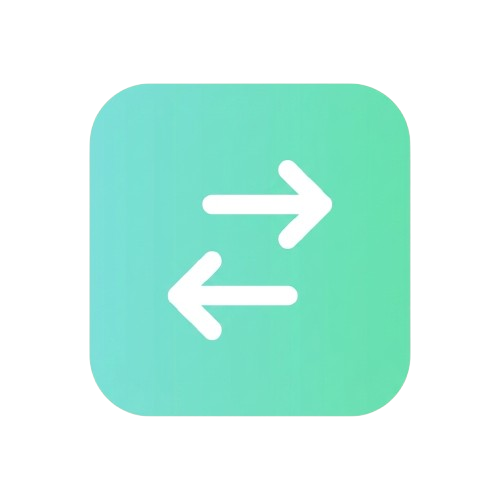
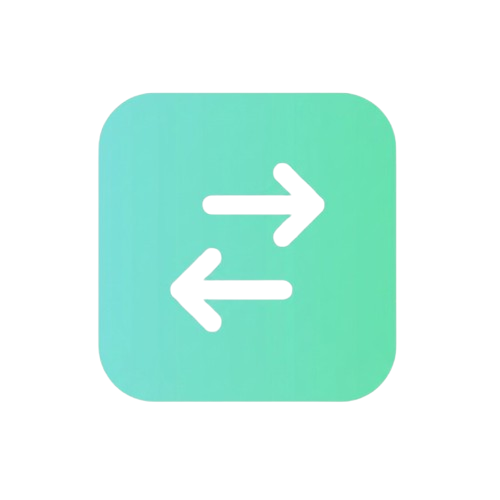
Se agregan las imagenes de nuestros servicios

Changed region(s): [[0.18, 0.15, 0.84, 0.84], [0.33, 0.48, 0.6, 0.69], [0.54, 0.3, 0.69, 0.51]]

diff --git a/index.html b/index.html
@@ -61,32 +61,32 @@
                 </div>
 
                 <div class="tarjeta-item tarjeta-test">
-                    <img src="..." alt="Icono Test Vocacional Personalizado" class="icono-tarjeta">
+                    <img src="./Componentes/Imagenes/lista.png" alt="Icono Test Vocacional Personalizado" class="icono-tarjeta">
                     <h2 class="titulo-tarjeta">Test Vocacional Personalizado</h2>
                     <p class="descripcion-tarjeta">Evaluaciones diseñadas para descubrir tus aptitudes, preferencias y áreas de mayor potencial profesional.</p>
                 </div>
 
                 <div class="tarjeta-item tarjeta-tutorias">
-                    <img src="..." alt="Icono Tutorías Individuales" class="icono-tarjeta">
+                    <img src="./Componentes/Imagenes/grupo.png" alt="Icono Tutorías Individuales" class="icono-tarjeta">
                     <h2 class="titulo-tarjeta">Tutorías Individuales</h2>
                     <p class="descripcion-tarjeta">Sesiones uno a uno con expertos para resolver tus dudas y crear un plan de carrera personalizado.
                     </p>
                 </div>
 
                 <div class="tarjeta-item tarjeta-desarrollo">
-                    <img src="..." alt="Icono Desarrollo Profesional" class="icono-tarjeta">
+                    <img src="./Componentes/Imagenes/subida.png" alt="Icono Desarrollo Profesional" class="icono-tarjeta">
                     <h2 class="titulo-tarjeta">Desarrollo Profesional</h2>
                     <p class="descripcion-tarjeta">Herramientas y estrategias para mejorar en la profesión que ya ejerces y alcanzar tus metas laborales.</p>
                 </div>
 
                 <div class="tarjeta-item tarjeta-cambio">
-                    <img src="..." alt="Icono Cambio de Carrera" class="icono-tarjeta">
+                    <img src="./Componentes/Imagenes/flechas.png" alt="Icono Cambio de Carrera" class="icono-tarjeta">
                     <h2 class="titulo-tarjeta">Cambio de Carrera</h2>
                     <p class="descripcion-tarjeta">Acompañamiento en procesos de transición profesional para tomar decisiones informadas y estratégicas.</p>
                 </div>
 
                 <div class="tarjeta-item tarjeta-busqueda">
-                    <img src="..." alt="Icono Búsqueda de Empleo" class="icono-tarjeta">
+                    <img src="./Componentes/Imagenes/maletin.png" alt="Icono Búsqueda de Empleo" class="icono-tarjeta">
                     <h2 class="titulo-tarjeta">Búsqueda de Empleo</h2>
                     <p class="descripcion-tarjeta">Asesoría para optimizar tu CV, preparar entrevistas y estrategias efectivas de búsqueda laboral.</p>
                 </div>

diff --git a/Css/estilo.css b/Css/estilo.css
@@ -180,7 +180,7 @@ body {
 
 .tarjeta-servicios{
    display: grid;
-   grid-template-columns: 320px 320px 320px;
+   grid-template-columns: 350px 350px 350px;
    justify-content: center;
    grid-gap: 30px;
    padding: 40px 0;
@@ -188,7 +188,7 @@ body {
 }
 
 .tarjeta-item {
-   border-radius: 15px;
+   border-radius: 20px;
    padding:30px;
    border: 1px solid;
 
